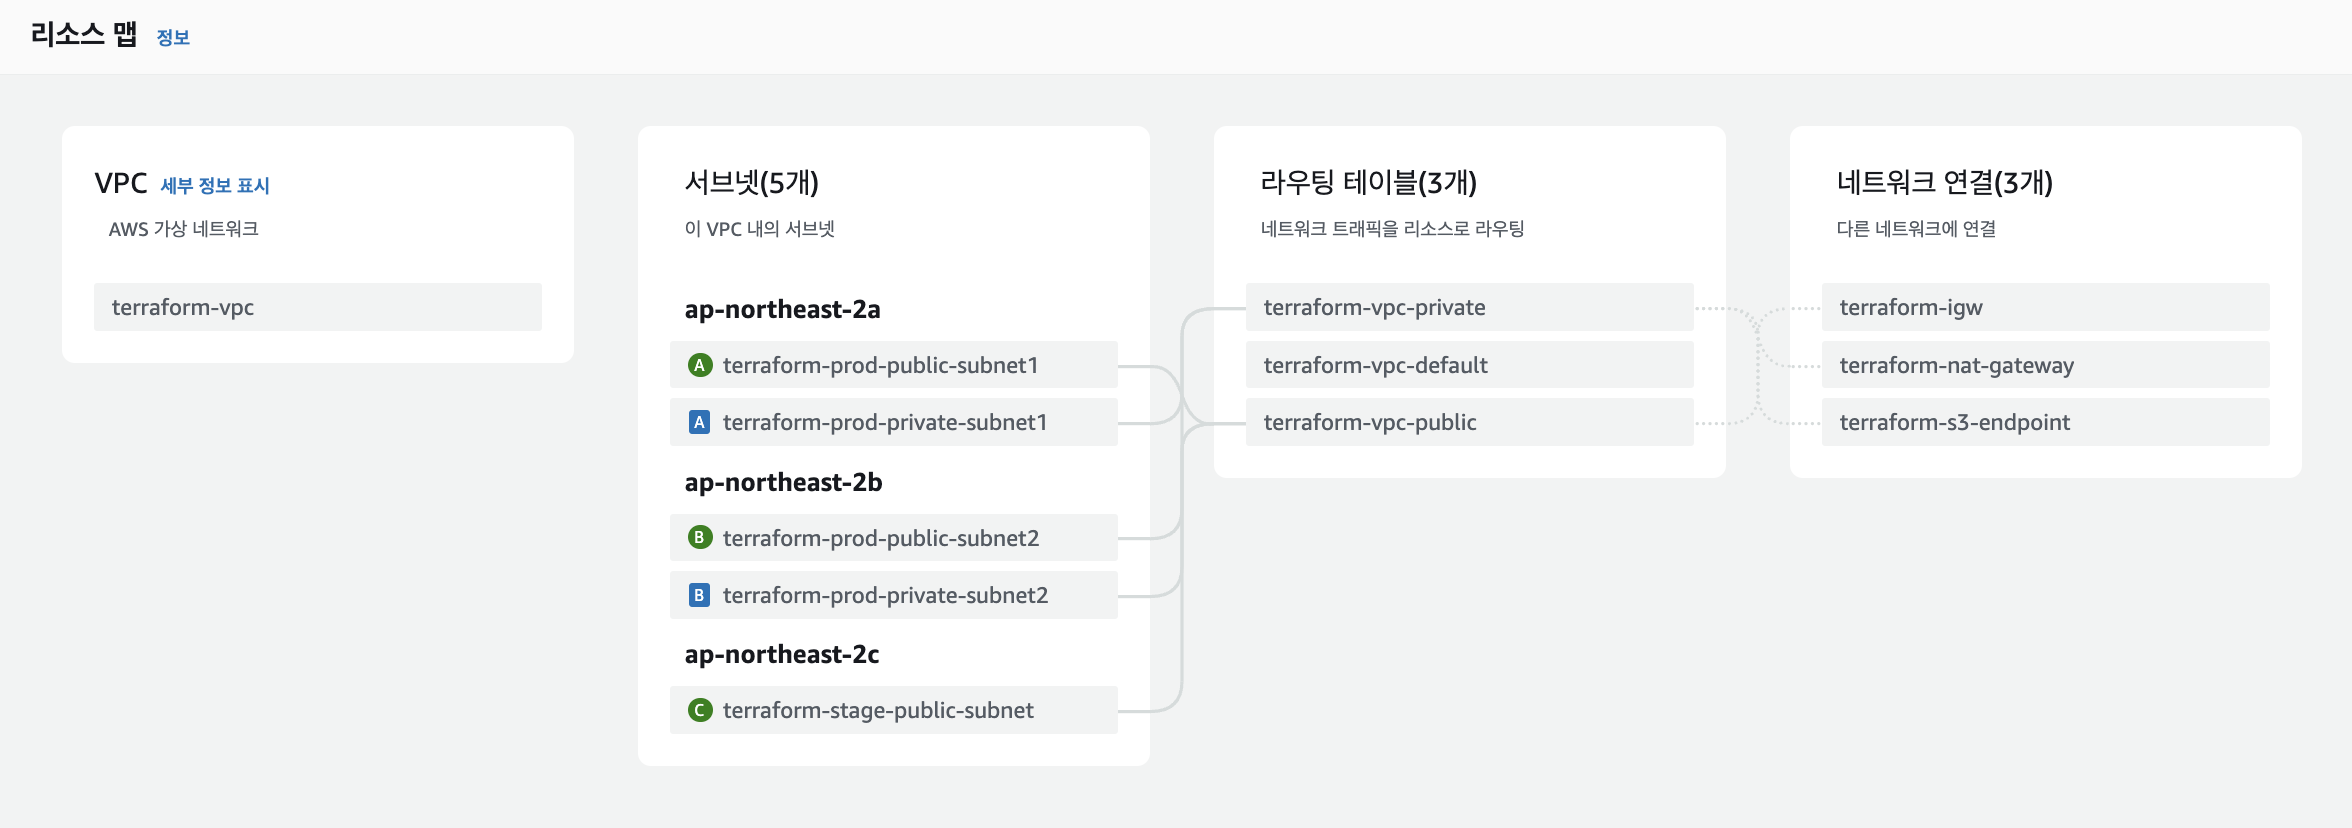
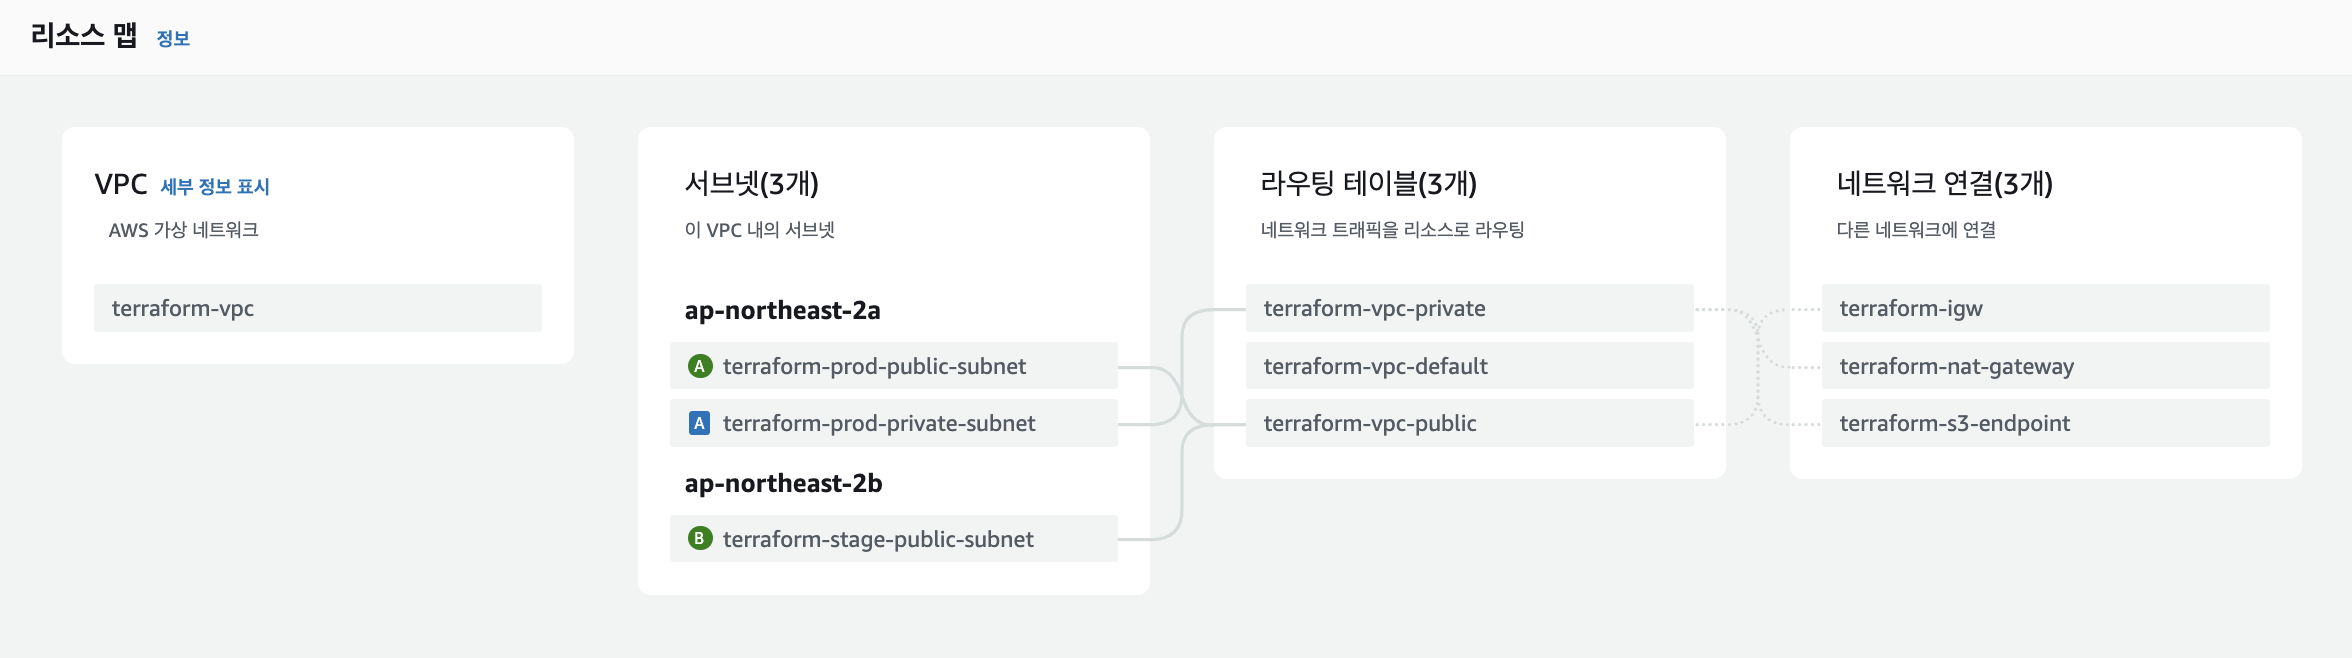
Fix: Subnet 수정 (prod 환경의 public, private Subnet 개수를 각각 1개씩 수정)

diff --git a/vpc/README.md b/vpc/README.md
@@ -9,8 +9,8 @@
 
 2. 서브넷
     - 프로덕션 환경
-        - 퍼블릭 서브넷 (2개)
-        - 프라이빗 서브넷 (2개)
+        - 퍼블릭 서브넷 (1개)
+        - 프라이빗 서브넷 (1개)
     - 스테이지 환경
         - 퍼블릭 서브넷 (1개)
 
